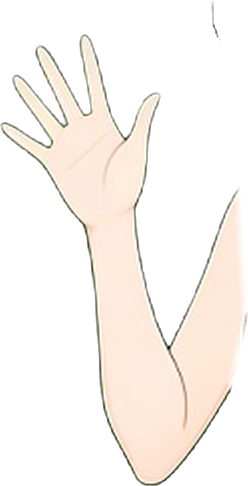
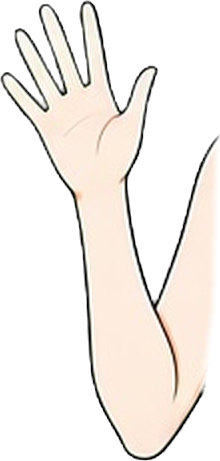
v4c 2단계: c11 기준 리그 재적용, 머리·목 분리, 겨드랑이 자른 선을 탱크톱 외곽선 바깥으로

diff --git a/public/v4c-demo/rig_c11.py b/public/v4c-demo/rig_c11.py
@@ -1,0 +1,48 @@
+# 2단계 리그: c3를 서로 겹치지 않는 영역으로 나눔(외곽선은 한 레이어에만). 지우기·마스크·처리값만 사용.
+import json,numpy as np
+from PIL import Image,ImageDraw
+S=2
+src=Image.open('/workspace/siha-v4/rebuild/body_F_c11.jpg').convert('RGB').resize((1440,2560),Image.LANCZOS)
+a=np.asarray(src).astype(float);r,g,b=a[...,0],a[...,1],a[...,2]
+gd=g-np.maximum(r,b)                      # 초록 우세도
+alpha=np.clip(1-(gd-20)/60,0,1)           # 키 처리값
+rgb=a.copy();sp=np.maximum(r,b);rgb[...,1]=np.minimum(g,sp)  # 스필 제거(초록을 r/b 최대치로 제한)
+def poly(pts):
+    m=Image.new('L',(1440,2560),0);ImageDraw.Draw(m).polygon([(x*S,y*S) for x,y in pts],fill=255);return np.asarray(m)>0
+armL=poly([(0,280),(258,280),(258,342),(270,346),(268,442),(255,535),(0,535)])
+armR=poly([(422,342),(720,342),(720,800),(460,800),(450,640),(427,520),(422,410)])
+head=poly([(258,0),(720,0),(720,342),(460,342),(440,336),(260,336)])&~armL
+from scipy.ndimage import binary_dilation
+body=binary_dilation(~(armL|armR|head),iterations=14)
+from scipy.ndimage import distance_transform_edt
+def ramp(m):  # 팔의 몸 쪽 자른 면을 8px 알파 램프로(처리 값)
+    d=distance_transform_edt(m);return np.clip(d/8,0,1)
+cutL=ramp(armL|(alpha<0.5)) ; cutR=ramp(armR|(alpha<0.5)) ; cutH=ramp(head|(alpha<0.5))
+out={}
+for n,m in [('body',body),('arm_L',armL*cutL),('arm_R',armR*cutR),('head',head*cutH)]:
+    A=(alpha*m*255).astype(np.uint8)
+    im=np.dstack([rgb.astype(np.uint8),A]);ys,xs=np.nonzero(A)
+    x0,y0,x1,y1=xs.min(),ys.min(),xs.max()+1,ys.max()+1
+    Image.fromarray(im[y0:y1,x0:x1],'RGBA').save(f'/workspace/ssb/public/v4c-demo/parts/{n}.png')
+    out[n]=dict(x=int(x0),y=int(y0),width=int(x1-x0),height=int(y1-y0))
+sk={"skeleton":{"width":1440,"height":2560,"scale":2,"note":"v4c: c11 원본(GenerateImage) 2배 Lanczos(4단계에서 Real-ESRGAN 4x로 교체 예정) → 초록 키+스필 제거 → 4영역(몸·머리·왼팔·오른팔), 몸은 팔 아래로 14px 마스크 확장해 제자리 피부를 깔고 팔이 위에 얹힘. 팔 피벗=실제 어깨 관절. 외곽선은 한 레이어에만 있음."},
+ "bones":[{"name":"root","rest":{"x":720,"y":1280}},{"name":"head","parent":"root","rest":{"x":340*S,"y":336*S}},{"name":"arm_L","parent":"root","rest":{"x":272*S,"y":372*S}},{"name":"arm_R","parent":"root","rest":{"x":425*S,"y":372*S}}],
+ "slots":[dict(name=n,bone={'body':'root'}.get(n,n),path=f'parts/{n}.png',**out[n]) for n in ['body','arm_R','arm_L','head']],
+ "items":[],"animations":{"wave":{"bone":"arm_L","period":1.6,"repeat":2,"angle":[[0,0],[0.4,3],[0.8,-1.5],[1.2,3],[1.6,0]]}}}
+json.dump(sk,open('/workspace/ssb/public/v4c-demo/skeleton.json','w'),ensure_ascii=False)
+# 회전 시 빈 영역 측정
+def comp(ang):
+    c=Image.new('RGBA',(1440,2560),(0,0,0,0))
+    for n in ['body','arm_R','arm_L','head']:
+        p=Image.open(f'/workspace/ssb/public/v4c-demo/parts/{n}.png');o=out[n];L=Image.new('RGBA',(1440,2560));L.paste(p,(o['x'],o['y']));L=L.convert('RGBa')
+        if n=='arm_L':L=L.rotate(ang,center=(272*S,372*S),resample=Image.BILINEAR)
+        L=L.convert('RGBA')
+        c=Image.alpha_composite(c,L)
+    return c
+base=np.asarray(comp(0))[...,3].astype(int)
+for ang in [3,-1.5]:
+    pass
+for ang in [3,-1.5]:
+    c=comp(ang);A=np.asarray(c)[...,3].astype(int)
+    hole=(base>200)&(A<200)&poly([(230,320),(320,320),(320,460),(230,460)])
+    print(ang,'shoulder holes',hole.sum());c.save(f'/tmp/v4c/comp_{ang}.png')
